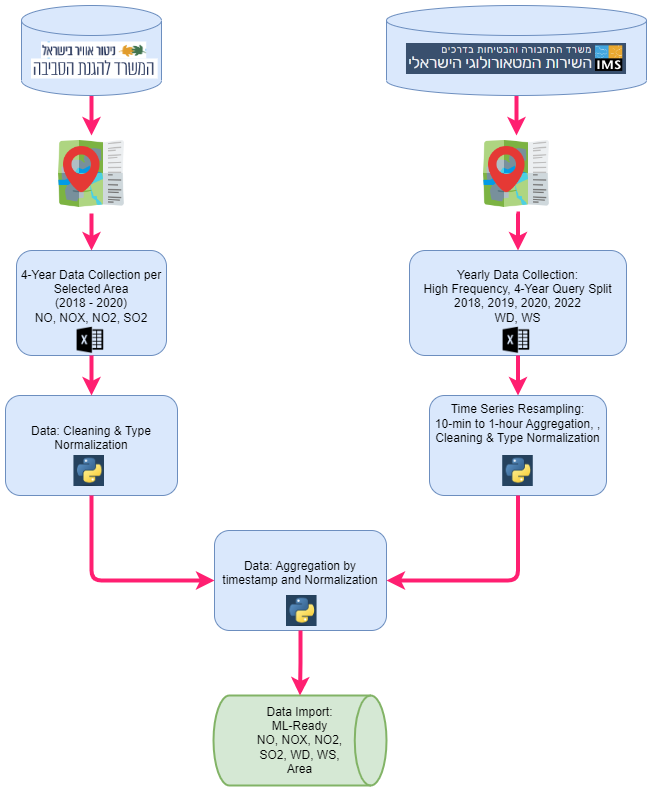
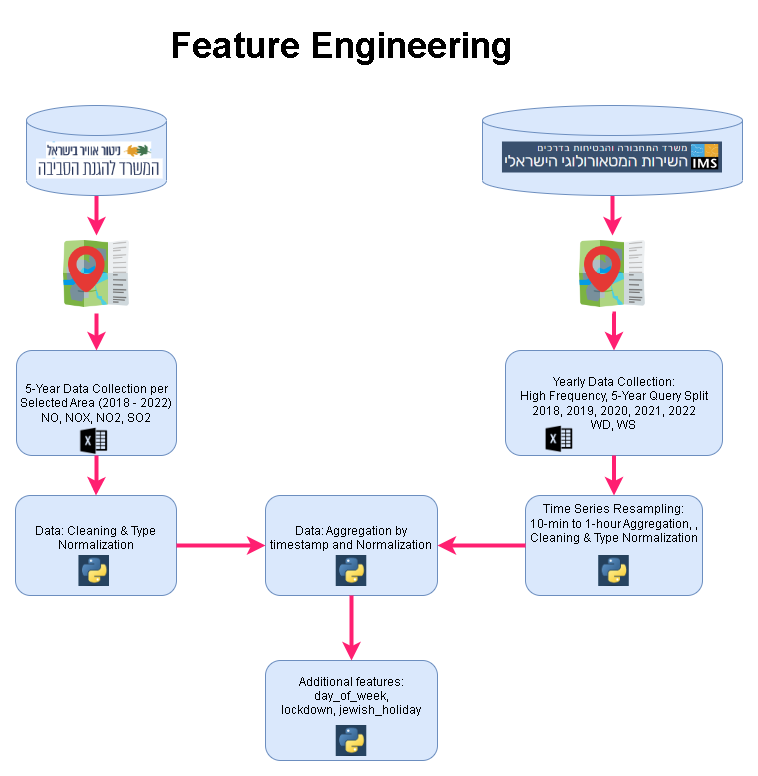
readme updated - diagram and future work

diff --git a/README.md b/README.md
@@ -249,13 +249,44 @@ We believe that exploring this hypothesis will not only contribute to the scient
 affecting air quality but also offer valuable insights for policymakers, environmentalists, and the public. 
 Ultimately, our goal is to promote strategies that lead to cleaner air and a healthier environment.
 
-# Future Work
-Going forward, we aim to improve our model with additional data and potentially by using more advanced 
-machine learning techniques. We also aim to assess the impact of post-lockdown activities on the air 
-quality and to draw insights that can help in policymaking to maintain the improved air quality levels 
-witnessed during the lockdowns.
+# Planned Enhancements and Future Directions
+In our pursuit of refining and improving our model, we envision incorporating additional data and exploring advanced 
+machine learning techniques. Additionally, we aim to investigate the impact of post-lockdown activities on air quality. 
+The insights gleaned from this analysis can inform policymaking endeavors, helping to maintain the improved air quality 
+levels observed during lockdown periods.
 
-We believe that the work presented here provides a promising direction for future research into the impact 
-of extraordinary events, such as pandemics or economic recessions, on the environment. By understanding 
-these impacts, we can find ways to mitigate the negative effects and improve the quality of life for all 
-residents.
+The body of work presented here establishes a promising trajectory for future inquiries into the environmental 
+repercussions of extraordinary occurrences, including pandemics and economic downturns. Understanding these impacts 
+paves the way towards mitigating adverse effects and enhancing quality of life for all residents.
+
+## Inclusion of Highway Proximity in Air Quality Analysis
+As part of our dataset augmentation, we are considering the introduction of a new feature: the distance from an air 
+quality monitoring station to the nearest highway. This feature presents multiple benefits:
+
+**Emissions Source Proximity:** Highways, being major vectors for vehicular emissions, significantly contribute to 
+the concentration of air pollutants such as NO, NO2, NOX, and SO2. Stations in proximity to highways are expected 
+to register heightened pollutant concentrations.
+
+**Localized Pollution Impact:** Pollution exhibits a localized nature. The influence of vehicular emissions might 
+not uniformly disperse across extensive areas. Factoring in a station's highway proximity facilitates a more accurate 
+depiction of localized pollution scenarios.
+
+**Lockdown Impact Assessment:** The reduction in highway traffic as a result of COVID-19 lockdowns could have affected 
+air quality more profoundly near highways. Integrating a highway proximity feature could assist in quantifying the 
+effects of lockdown initiatives on air quality, particularly for stations near major roads.
+
+**Model Granularity Enhancement:** Incorporating the highway proximity feature could lend an additional layer of 
+granularity to our model, enabling it to capture more nuanced spatial patterns in pollution levels.
+
+Nonetheless, the incorporation of this feature is accompanied by certain challenges:
+
+**Data Accuracy:** For this feature to be effective, precise and reliable data on highway locations and their 
+corresponding distances from each station are indispensable.
+
+**Interplay of Multiple Factors:** Highway proximity is only one of the myriad factors influencing pollution levels. 
+Other factors, including wind direction, topography, and local emission sources, also significantly contribute and 
+must be taken into consideration.
+
+**Model Complexity Trade-Off:** Introducing this feature could increase model complexity, potentially complicating 
+interpretation. It's crucial to maintain a balance between the potential for enhanced prediction accuracy and the 
+risk of increased model complexity.
